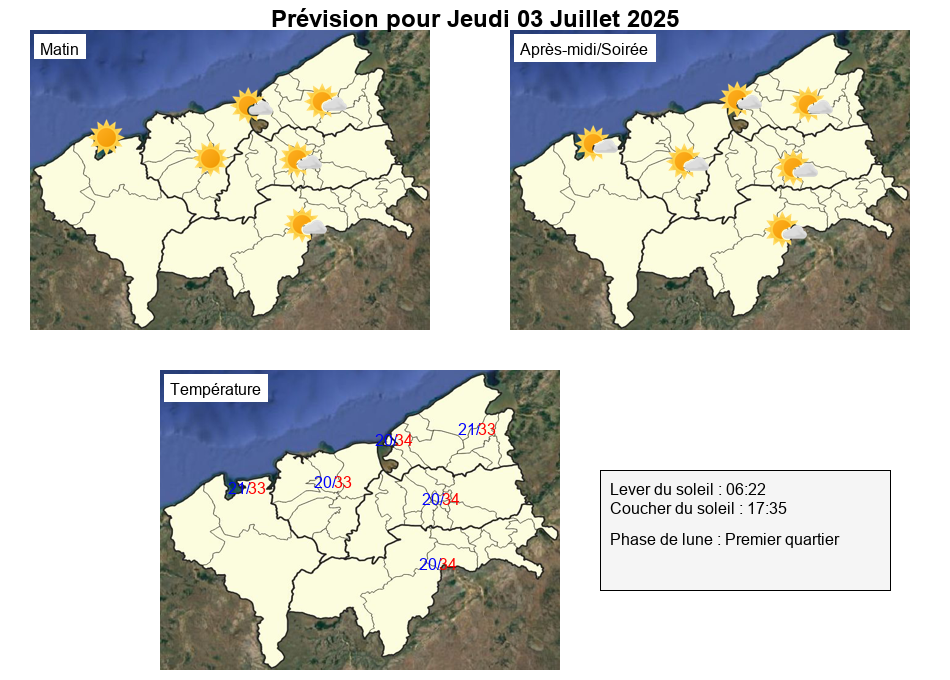
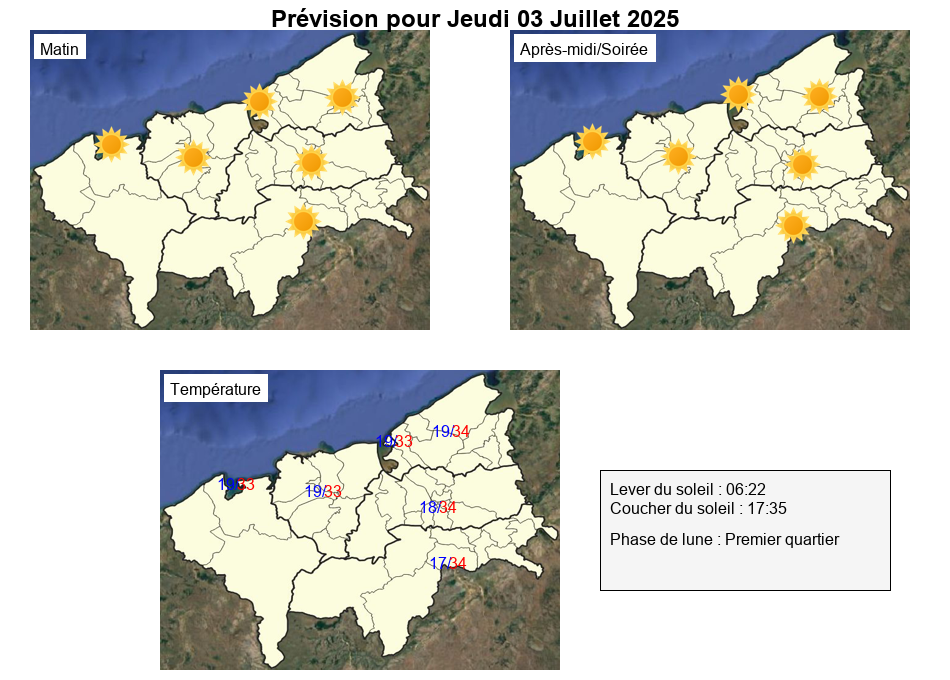
Frcst on 03/07/2025

diff --git a/script.js b/script.js
@@ -48,13 +48,14 @@ const MarineMessages = [
     {
         message: `**Bulletin marine cotière**
         BULLETIN DE PRÉVISION MARINE CÔTIÈRE JUSQU’À 50 MILLES NAUTIQUES AU LARGE 
-        ÉTABLI PAR MÉTÉO MADAGASCAR LE 02/07/2025 A 10 TU, VALABLE LE 02/07/2025 A 10 TU JUSQU’AU 03/07/2025 A 10 TU. 
+        ÉTABLI PAR MÉTÉO MADAGASCAR LE 02/07/2025 A 10 TU, 
+        VALABLE LE 02/07/2025 A 10 TU JUSQU’AU 03/07/2025 A 10 TU. 
         LE VENT DONNE DANS CE BULLETIN CORRESPOND AU VENT MOYEN PRÉVU EN NŒUD ET LA HAUTEUR DE VAGUE REPRÉSENTE LA HAUTEUR SIGNIFICATIVE (H1/3) EN MÈTRES.  
 
-CAP ST ANDRÉ A ANALALAVA
-VENT : Sud-Est 15/20 localement 25/30 entre Mahajanga et Analalava.
-ÉTAT DE LA MER : Peu agitée à agitée. Hauteur des vagues 0.5/1.5m atteignant 2m au Nord de Mahajanga.
-TEMPS : Généralement sec.`,
+**CAP ST ANDRÉ A ANALALAVA**
+**VENT** : Sud-Est 15/20 localement 25/30 entre Mahajanga et Analalava.
+**ÉTAT DE LA MER** : Peu agitée à agitée. Hauteur des vagues 0.5/1.5m atteignant 2m au Nord de Mahajanga.
+**TEMPS** : Généralement sec.`,
         image: 'Image_marine_cotiere_SITEWEB-MHJ.png'
     },
 
@@ -67,10 +68,10 @@ TEMPS : Généralement sec.`,
         VALABLE LE 02/07/2025 A 10 TU JUSQU’AU 03/07/2025 A 10 TU. 
         LE VENT DONNE DANS CE BULLETIN CORRESPOND AU VENT MOYEN EN NŒUD ET LA HAUTEUR DE VAGUE REPRÉSENTE LA HAUTEUR SIGNIFICATIVE (H1/3) N MÈTRES.
 
-10S/20S :
-VENT : SUD A SUD-EST 10/20, ATTEIGNANT 25/30 ENTRE MAHAJANGA ET ANALALAVA.
-ÉTAT DE LA MER : PEU AGITÉE A AGITÉE.
-TEMPS : FAIBLES AVERSES ISOLÉES AU NORD DE 16S, PARTIELLEMENT NUAGEUX AILLEURS.
+**10S/20S **:
+**VENT **: SUD A SUD-EST 10/20, ATTEIGNANT 25/30 ENTRE MAHAJANGA ET ANALALAVA.
+**ÉTAT DE LA MER** : PEU AGITÉE A AGITÉE.
+**TEMPS **: FAIBLES AVERSES ISOLÉES AU NORD DE 16S, PARTIELLEMENT NUAGEUX AILLEURS.
         `,
         image: 'Image_marine_haute_mer_SITEWEB.png'
     }
@@ -79,20 +80,20 @@ TEMPS : FAIBLES AVERSES ISOLÉES AU NORD DE 16S, PARTIELLEMENT NUAGEUX AILLEURS.
 
 
     const templates = [
-        `Temps ensoleillé le matin, devenant peu nuageux l'après-midi dans la région.  
+        `Temps ensoleillé toute la journée.  
 **Vents** : Vents modéré à fort du secteur ESE  
-**Températures minimales** : entre 20 et 21 °C  
-**Températures maximales** : entre 32 et 34 °C.`,
-
-        `Temps ensoleillé le matin, peu nuageux à l'Est de la région, Nuageux l'après-midi.  
-**Vents** : Vents modéré à fort de secteur ESE  
-**Températures minimales** : entre 20 et 21 °C  
+**Températures minimales** : entre 17 et 19 °C  
 **Températures maximales** : entre 33 et 34 °C.`,
 
-        `Temps ensoleillé toute la journée sauf à l'Est de la région qui sera peu nuageux.  
+        `Temps ensoleillé le matin, peu nuageux l'après-midi.  
 **Vents** : Vents modéré à fort de secteur ESE  
-**Températures minimales** : entre 20 et 21 °C  
-**Températures maximales** : entre 33 et 34 °C.`
+**Températures minimales** : entre 17 et 19 °C  
+**Températures maximales** : entre 32 et 33 °C.`,
+
+        `Temps ensoleillé toute la journée.  
+**Vents** : Vents modéré à fort de secteur ESE  
+**Températures minimales** : entre 17 et 19 °C  
+**Températures maximales** : entre 31 et 32 °C.`
 
     ];
 
@@ -248,7 +249,7 @@ async function displayMessages() {
         for (const entry of validEntries) {
             hideImages();
             await scrollMessage(entry.message);
-            await new Promise(resolve => setTimeout(resolve, 1100));
+            await new Promise(resolve => setTimeout(resolve, 1500));
 
             imageContainer.innerHTML = '';
             const img = document.createElement('img');
@@ -257,9 +258,9 @@ async function displayMessages() {
             imageContainer.appendChild(img);
             setTimeout(() => {
                 imageContainer.style.opacity = 1;
-            }, 500);
+            }, 700);
 
-            await new Promise(resolve => setTimeout(resolve, 7000));
+            await new Promise(resolve => setTimeout(resolve, 9000));
         }
     }
 }
